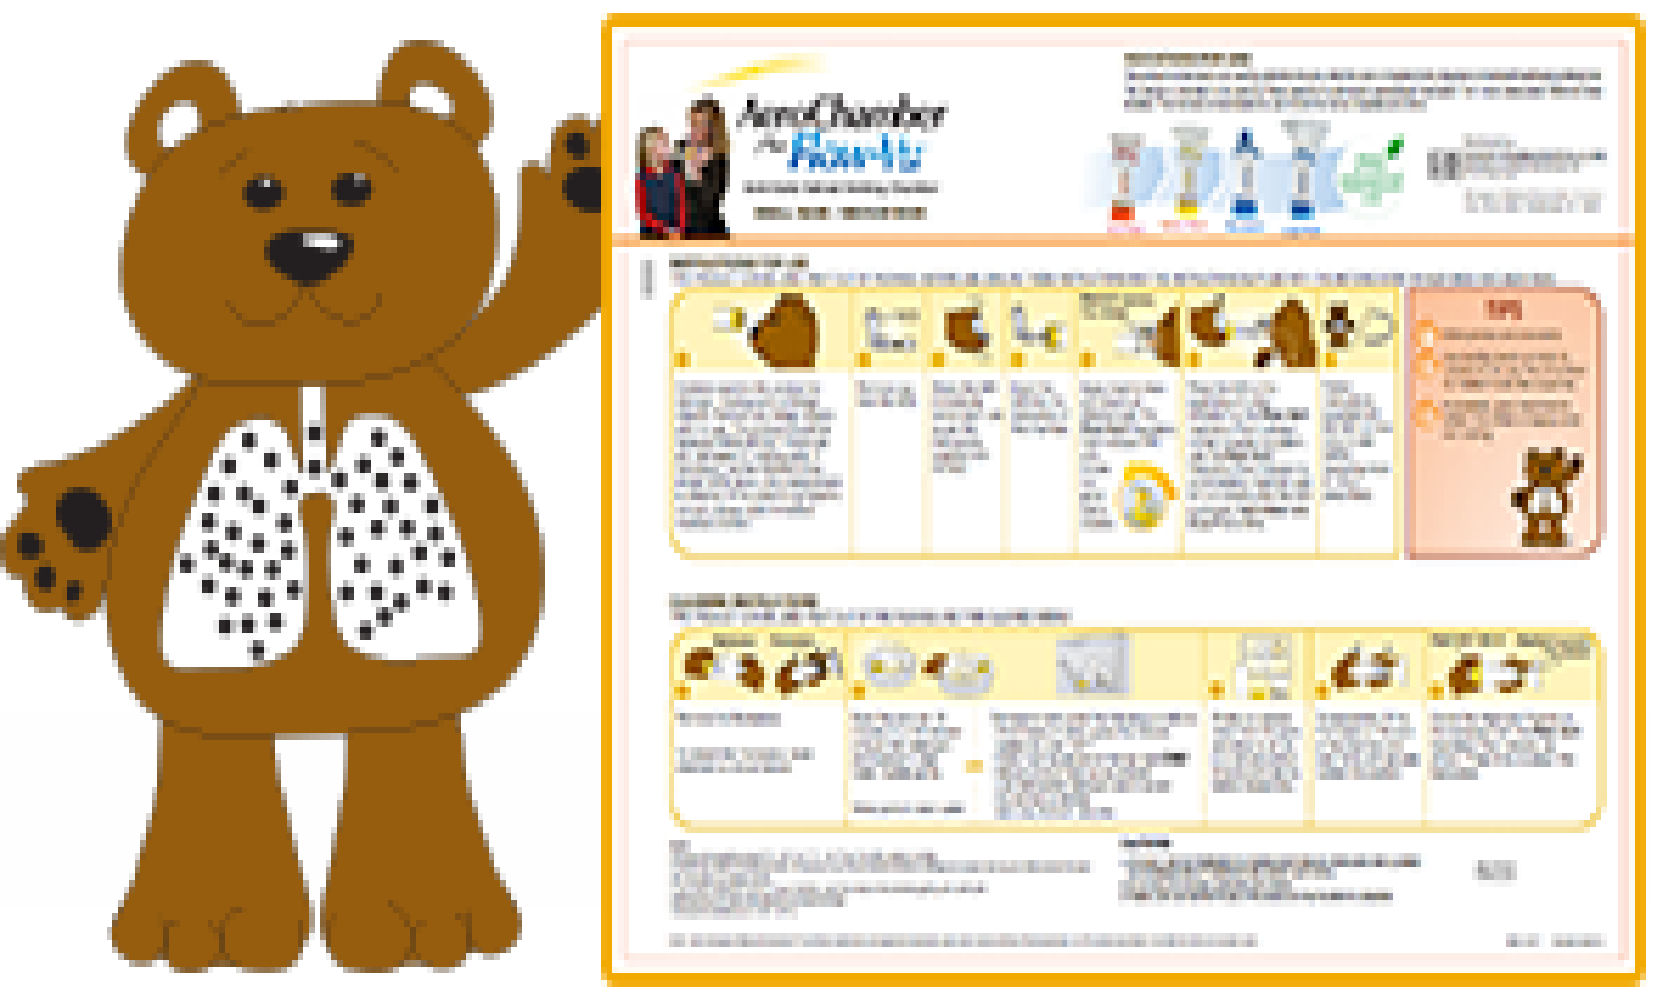
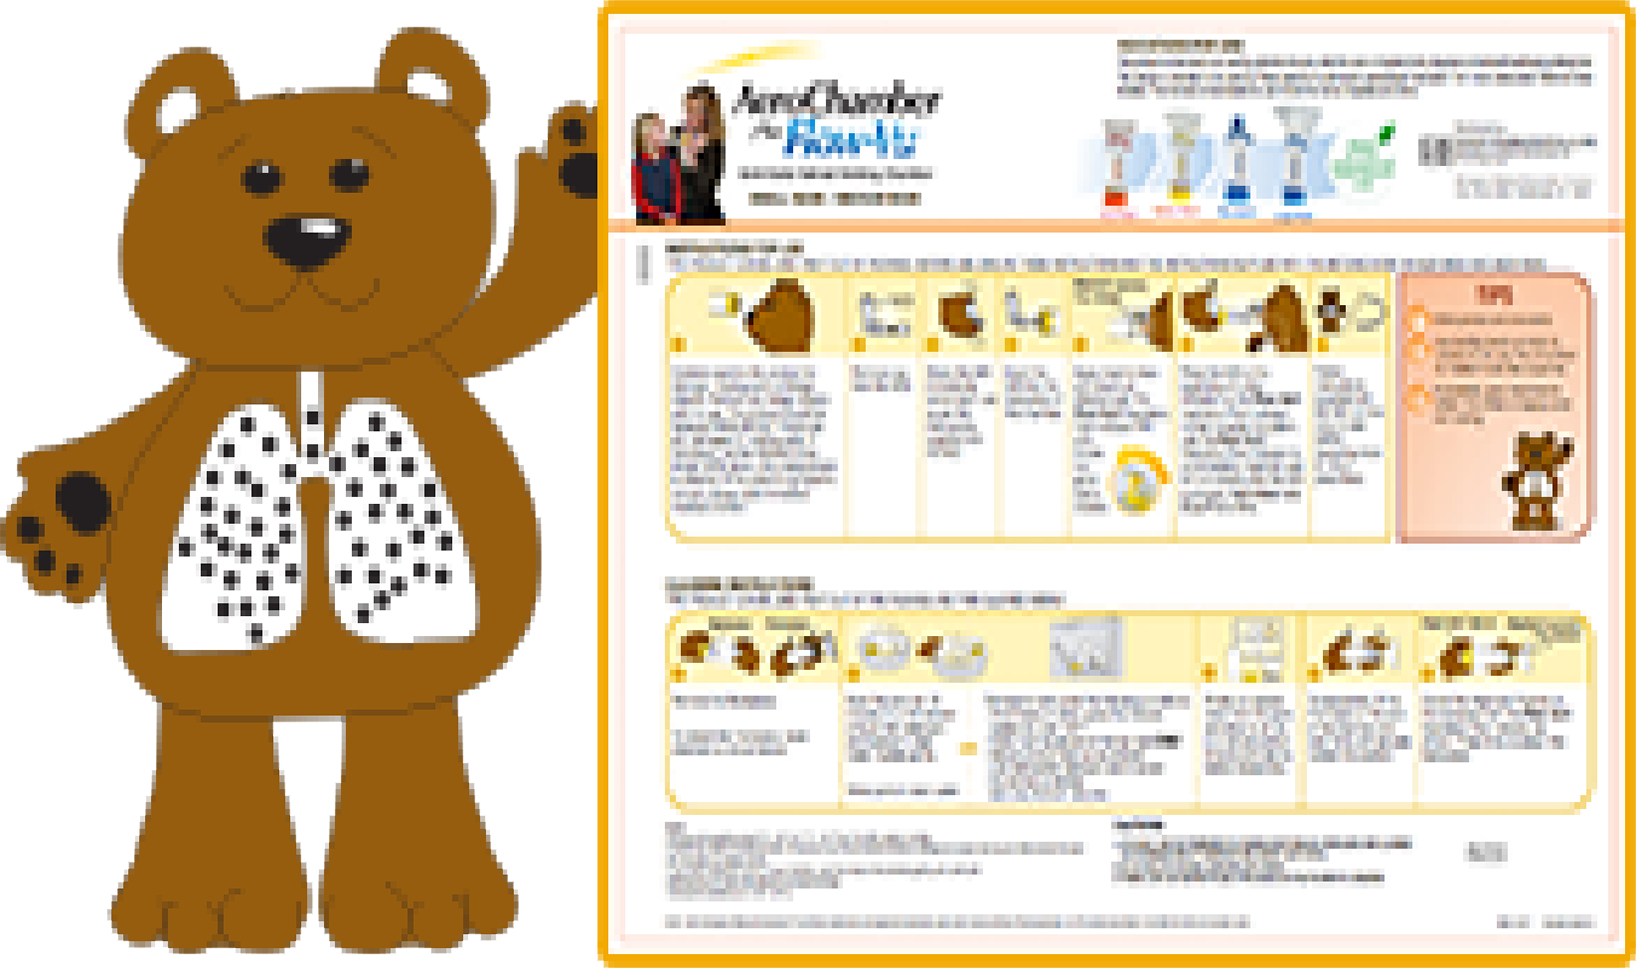
Fix images in 'Download Instructions For Use' section

diff --git a/src/pages/overview.js b/src/pages/overview.js
@@ -76,20 +76,21 @@ const BearAndMaskImgWrapper = styled.div`
   display: flex;
   flex-direction: row;
   justify-content: center;
-  align-items: flex-start;
-  width: 100%;
+  align-items: center;
 `;
 
-const BearOrMaskImg = styled(Img)``;
+const BearOrMaskImg = styled(Img)`
+  margin: 0 2vw;
+`;
 
 const BearImg = BearOrMaskImg.extend`
-  width: 40vw;
+  width: 36vw;
 `;
 const SmallMaskImg = BearOrMaskImg.extend`
-  width: 20vw;
+  width: 19.5vw;
 `;
 const LargeMaskImg = BearOrMaskImg.extend`
-  width: 20vw;
+  width: 19.5vw;
 `;
 
 const CautionsList = styled.ul`
@@ -216,7 +217,7 @@ export const query = graphql`
       }
     }
     bear: imageSharp(id: { regex: "/overview/bear.png/" }) {
-      sizes(maxWidth: 412) {
+      sizes(maxWidth: 1636) {
         src
         srcSet
         srcWebp
@@ -226,9 +227,9 @@ export const query = graphql`
       }
     }
     smallMask: imageSharp(
-      id: { regex: "/overview/small_mask_and_medium_mask.png/" }
+      id: { regex: "/overview/small_mask_medium_mask.png/" }
     ) {
-      sizes(maxWidth: 412) {
+      sizes(maxWidth: 851) {
         src
         srcSet
         srcWebp
@@ -240,7 +241,7 @@ export const query = graphql`
     largeMask: imageSharp(
       id: { regex: "/overview/large_mask_mouthpiece.png/" }
     ) {
-      sizes(maxWidth: 412) {
+      sizes(maxWidth: 851) {
         src
         srcSet
         srcWebp
